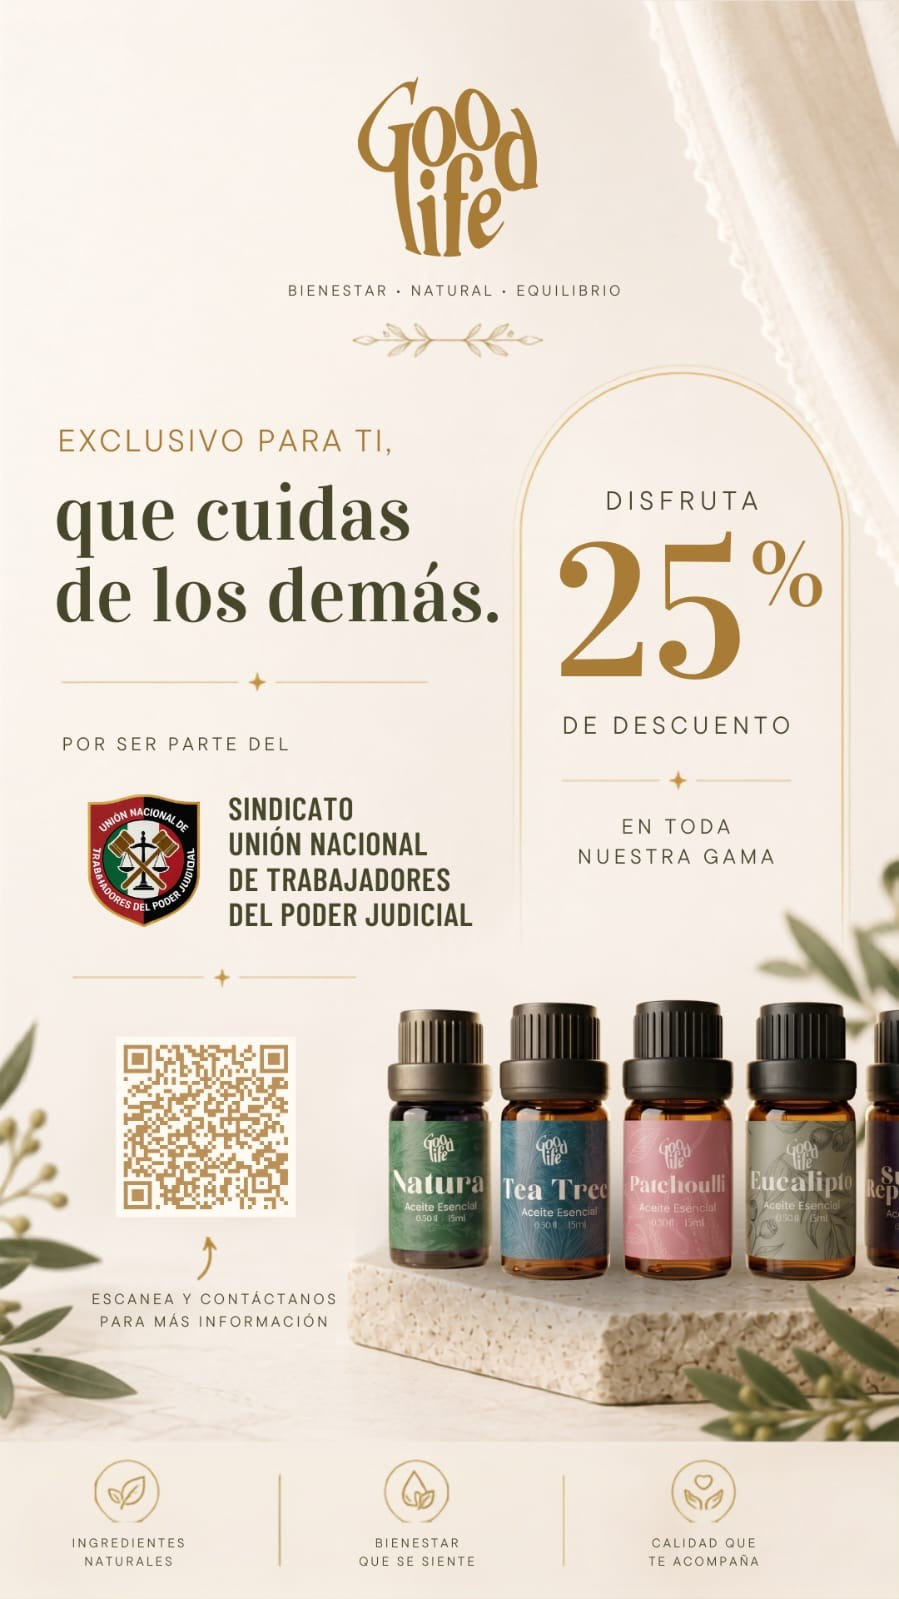
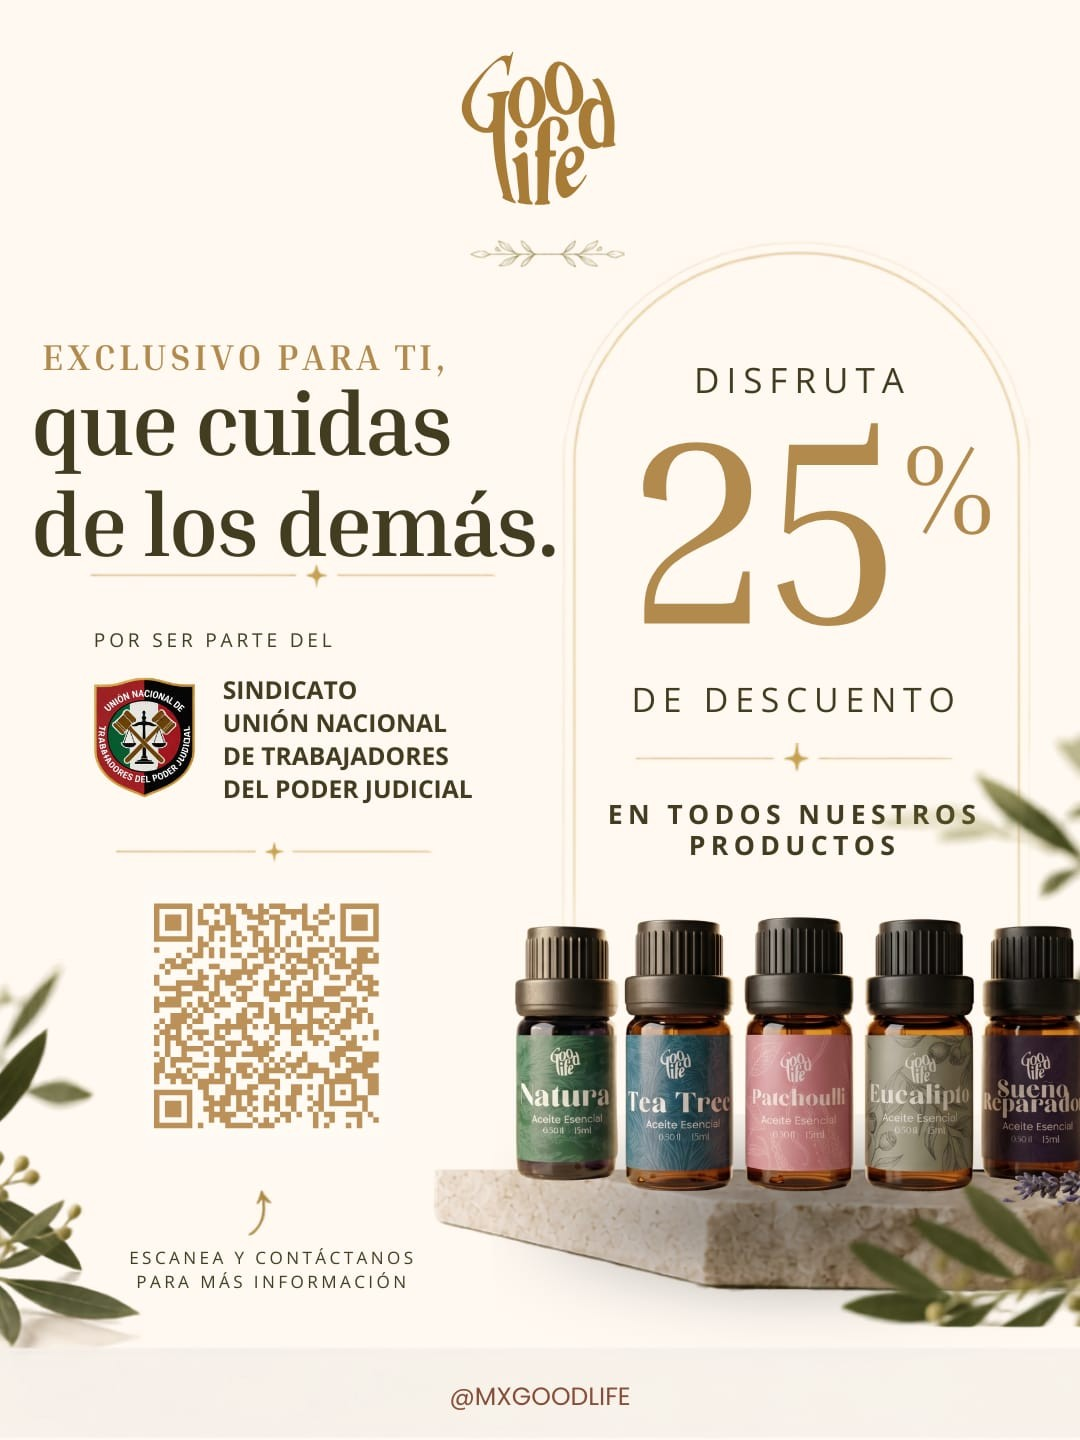
convenios

diff --git a/src/lib/site-data.ts b/src/lib/site-data.ts
@@ -480,10 +480,20 @@ export const CONVENIOS_DETALLE: Convenio[] = [
     nombre: "Good Life · Aceites esenciales",
     categoria: "Salud y bienestar",
     resumen:
-      "Aceites esenciales naturales para bienestar y equilibrio: Natura, Tea Tree, Patchoulli, Eucalipto y más.",
-    descuento: "25% de descuento en toda la gama",
-    contacto: "Escanea el código QR del flyer para más información",
+      "Aceites esenciales naturales para bienestar y equilibrio: Natura, Tea Tree, Patchoulli, Eucalipto, Sueño Reparador y más.",
+    descuento: "25% de descuento en todos los productos",
+    contacto: "Escanea el código QR del flyer o síguelos en @mxgoodlife",
     imagen: "good-life",
+  },
+  {
+    id: "gestor-vehicular",
+    nombre: "Gestor · Gestión Vehicular Premium",
+    categoria: "Automotriz y trámites",
+    resumen:
+      "Alta y baja de placas, cambio de propietario, verificación, traslados de vehículos, gestión de multas e infracciones, trámites de vehículos eléctricos, alta de motos, permisos de circulación, seguro de autos, seguro de vida y servicio mecánico automotriz.",
+    descuento: "15% de descuento en servicio de gestión",
+    contacto: "747 133 2359 · Torres Adalid 1006, Del Valle Norte, Alcaldía Benito Juárez, CDMX",
+    imagen: "gestor-vehicular",
   },
 ];
 

diff --git a/src/routes/index.tsx b/src/routes/index.tsx
@@ -10,7 +10,7 @@ import {
   ShieldCheck,
   PartyPopper,
 } from "lucide-react";
-import heroImg from "@/assets/hero.jpg";
+import heroImg from "@/assets/hero-equipo.jpg";
 import apoyoImg from "@/assets/apoyo.jpg";
 import thumbPadre from "@/assets/noticia-papa-2026.jpg";
 import thumbNinez from "@/assets/noticia-ninez-02.jpg";
@@ -100,10 +100,10 @@ function Home() {
       <section className="relative isolate overflow-hidden bg-ink text-ink-foreground">
         <img
           src={heroImg}
-          alt="Trabajadoras y trabajadores del Poder Judicial de la Federación reunidos en un pasillo institucional"
-          width={1920}
-          height={1280}
-          className="absolute inset-0 size-full object-cover opacity-40"
+          alt="Integrantes del Comité Ejecutivo Nacional de la UNTPJ"
+          width={1952}
+          height={1304}
+          className="absolute inset-0 size-full object-cover opacity-55"
         />
         <div
           className="absolute inset-0 bg-gradient-to-r from-ink via-ink/85 to-ink/30"

diff --git a/src/routes/beneficios.tsx b/src/routes/beneficios.tsx
@@ -18,6 +18,7 @@ import imgBlancDental from "@/assets/convenio-blanc-dental.jpg";
 import imgTerapiasIntegrales from "@/assets/convenio-terapias-integrales.jpg";
 import imgArantxaGaray from "@/assets/convenio-arantxa-garay.jpg";
 import imgGoodLife from "@/assets/convenio-good-life.jpg";
+import imgGestorVehicular from "@/assets/convenio-gestor.jpg";
 import guiaEstudioImg from "@/assets/guia-de-estudio.jpg";
 import beneficiosHeroImg from "@/assets/beneficios-escritorio.jpg";
 
@@ -36,6 +37,7 @@ const IMAGENES: Record<string, string> = {
   "terapias-integrales": imgTerapiasIntegrales,
   "arantxa-garay": imgArantxaGaray,
   "good-life": imgGoodLife,
+  "gestor-vehicular": imgGestorVehicular,
 };
 
 export const Route = createFileRoute("/beneficios")({
